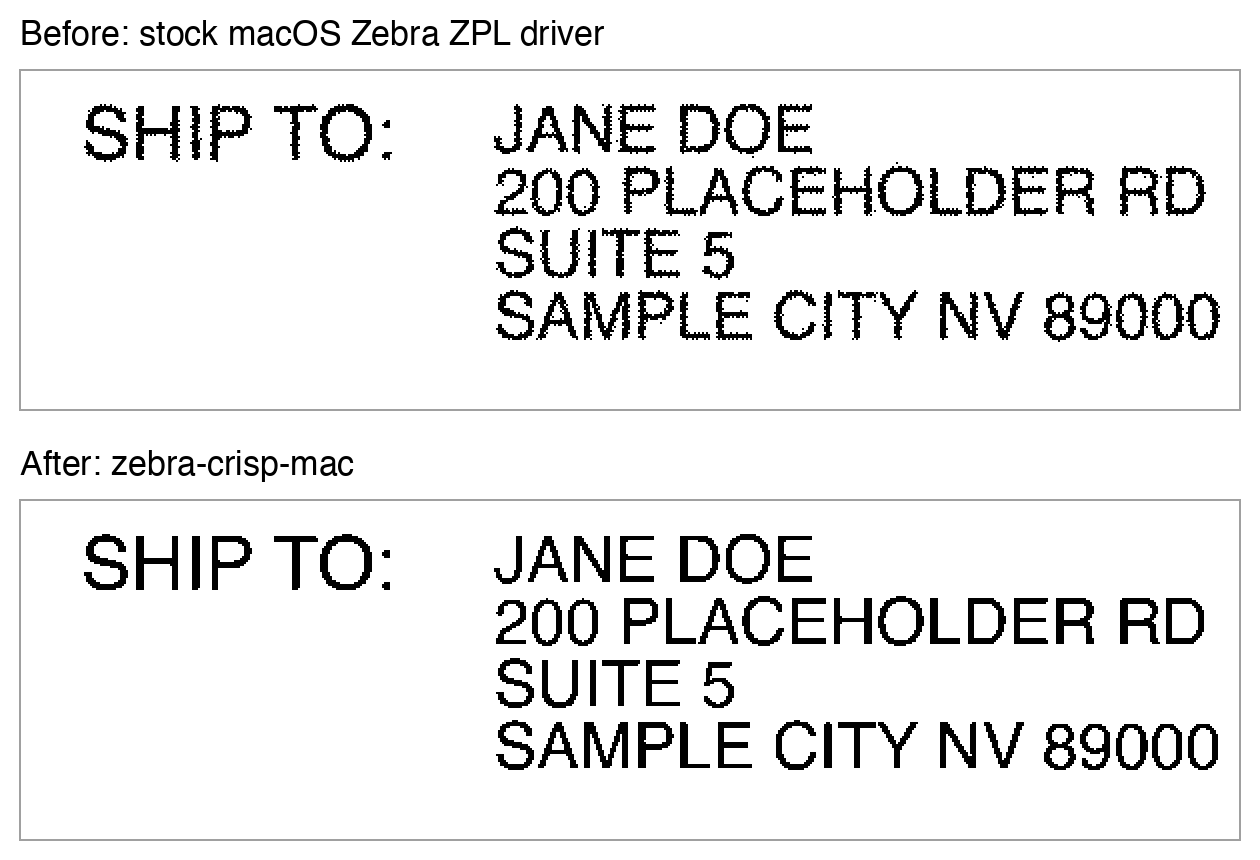
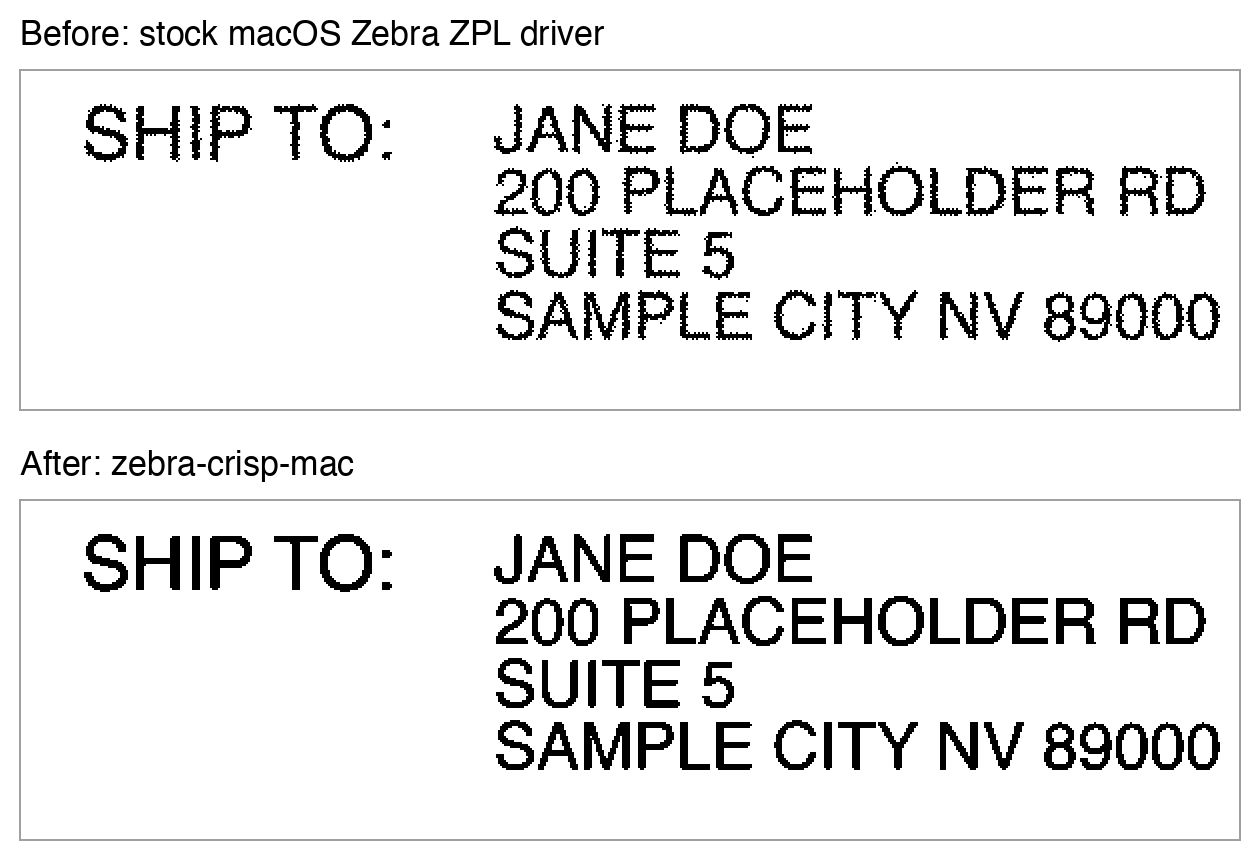
Print anything darker than 25% gray as black; ask for label size
- Normal Line Weight now prints anything darker than 25% gray as black
  (Thin: 50%, Bold: 12.5%). Cutoffs are calibrated to the K values macOS
  produces after color correction (25% gray arrives as K=78).
- The installer asks for the default label size (4x6 preselected) and
  applies it to switched-over and newly added printers; "Keep Current"
  and command-line installs leave sizes unchanged.

diff --git a/src/rastertozebracrisp.c b/src/rastertozebracrisp.c
@@ -37,9 +37,12 @@ int main(int argc, char *argv[])
     return 1;
   }
 
-  /* Threshold: K values >= this become black.  The "Line Weight" PPD
-   * option moves it so thin strokes print lighter or heavier. */
-  int threshold = 128;
+  /* Threshold: K values >= this become black (K: 0 = white, 255 = black).
+   * Normal prints anything darker than 25% gray as black; the "Line Weight"
+   * PPD option moves it so thin strokes print lighter or heavier.  macOS
+   * color-corrects grays before they reach us (25% gray in the document
+   * arrives as K=78), so the cutoffs are measured, not simply 25% of 255. */
+  int threshold = 79;                   /* darker than 25% gray */
   ppd_file_t *ppd = ppdOpenFile(getenv("PPD"));
   if (ppd) {
     cups_option_t *options = NULL;
@@ -48,9 +51,9 @@ int main(int argc, char *argv[])
     cupsMarkOptions(ppd, num_options, options);
     ppd_choice_t *weight = ppdFindMarkedChoice(ppd, "zeCrispLineWeight");
     if (weight && !strcmp(weight->choice, "Thin"))
-      threshold = 192;
+      threshold = 147;                  /* darker than 50% gray */
     else if (weight && !strcmp(weight->choice, "Bold"))
-      threshold = 64;
+      threshold = 41;                   /* darker than 12.5% gray */
     cupsFreeOptions(num_options, options);
     ppdClose(ppd);
   }

diff --git a/README.md b/README.md
@@ -20,7 +20,8 @@ of scattered dots. On a 203 dpi label printer those dots make every edge look
 ragged. The stock driver has no setting to turn dithering off.
 
 zebra-crisp-mac has macOS render in 8-bit grayscale instead, converts each
-pixel to pure black or white with a clean threshold (no dithering), and then
+pixel to pure black or white with a clean threshold (no dithering): anything
+darker than 25% gray prints black. It then
 hands the result to Apple's own Zebra driver code. Darkness, print speed,
 label top, tear-off and every other setting work exactly as before.
 
@@ -32,10 +33,13 @@ label top, tear-off and every other setting work exactly as before.
    **right-click (or Control-click) the file and choose Open**, then Open again.
    On recent macOS versions you may need to go to **System Settings > Privacy &
    Security** and click **Open Anyway**.
-3. Follow the installer.
+3. Follow the installer. It asks for your default label size (4 x 6 in for
+   shipping labels is preselected). Choose **Keep Current** to leave each
+   printer's size as it is.
 
 The installer automatically switches any printer already using Apple's
-**Zebra ZPL Label Printer** driver to the crisp driver and keeps its settings.
+**Zebra ZPL Label Printer** driver to the crisp driver and keeps its other
+settings.
 
 To add a new printer, go to **System Settings > Printers & Scanners > Add
 Printer**, select your Zebra, and choose **Zebra ZPL Label Printer Crisp** under
@@ -48,8 +52,10 @@ Printer**, select your Zebra, and choose **Zebra ZPL Label Printer Crisp** under
   shrinks it and softens it.
 - In Chrome, set **Margins: None**. If the label image is sideways, set
   **Layout: Landscape**.
-- **Line Weight** (Thin / Normal / Bold) in the printer options controls how
-  heavy thin strokes print. **Darkness** still controls how dark the printer
+- **Line Weight** in the printer options controls how heavy thin strokes
+  print by changing which grays print black: **Thin** (darker than 50% gray),
+  **Normal** (darker than 25% gray, the default) or **Bold** (darker than
+  12.5% gray). **Darkness** still controls how dark the printer
   burns each dot.
 
 ## Uninstall
